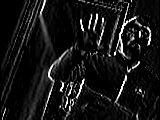
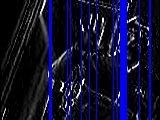
more

diff --git a/test.py b/test.py
@@ -17,7 +17,7 @@ r = cv2.filter2D(gray, -1, kernel)
 
 h,w = r.shape
 
-annotated = gray = cv2.cvtColor(img, cv2.COLOR_GRAY2RGB)
+annotated = cv2.cvtColor(r, cv2.COLOR_GRAY2RGB)
 
 for column in range(w):
     longest = 0
@@ -30,7 +30,7 @@ for column in range(w):
                 longest = current
                 current = 0
 
-    if current > 10:
+    if longest > 8:
+        cv2.line(annotated,(column,0),(column,h),(255,0,0),1)
 
-
-cv2.imwrite('test.jpg', r)
+cv2.imwrite('test.jpg', annotated)
